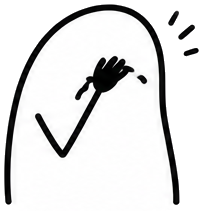
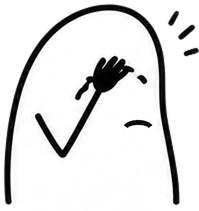
Olo sticker hand_face: the sheet drew no mouth under the hand (looked faceless) - a small frown added by tools/olo_assets.py (MOUTH)

diff --git a/tools/olo_assets.py b/tools/olo_assets.py
@@ -37,6 +37,7 @@ LOGO = {17, 85, 97}
 LOGO_BOX = {17: (192, 96, 230, 140)}          # where the automatic search only finds part of the logo
 WIDE_GAPS = {8, 67, 100}                       # outlines with bigger gaps: close harder before filling
 BOTTLE = set()          # the champagne (100) did not survive the cut cleanly - left out
+MOUTH = {86: (138, 120, 15)}   # drawn without a mouth under the hand (read as faceless): a small frown, in final coords
 
 
 def fill_if_empty(a, close=6):
@@ -89,6 +90,15 @@ def clean(a):
     return a[max(0, ys.min() - 4):ys.max() + 5, max(0, xs.min() - 4):xs.max() + 5]
 
 
+def add_mouth(a, cx, cy, w):
+    """A small frown drawn at 4x and scaled down, so its edge is as soft as the sheet's ink."""
+    from PIL import ImageDraw
+    im = Image.fromarray(a)
+    big = im.resize((im.width * 4, im.height * 4), Image.LANCZOS)
+    ImageDraw.Draw(big).arc(((cx - w) * 4, cy * 4, (cx + w) * 4, (cy + 16) * 4), 200, 340, fill=(12, 12, 12, 255), width=20)
+    return np.array(big.resize(im.size, Image.LANCZOS))
+
+
 def logo_box(a):
     """The brand logo on a laptop lid: pixels clearly off the lid's grey, well inside the lid."""
     rgb = a[..., :3].astype(int)
@@ -127,6 +137,8 @@ def main():
         if num in BOTTLE:
             print("soda", num, recolor_green(a))
         a = clean(a)
+        if num in MOUTH:
+            a = add_mouth(a, *MOUTH[num])
         Image.fromarray(a).save(os.path.join(OUT, name + ".png"), optimize=True)
     print(len(PICK), "stickers ->", OUT)
 
